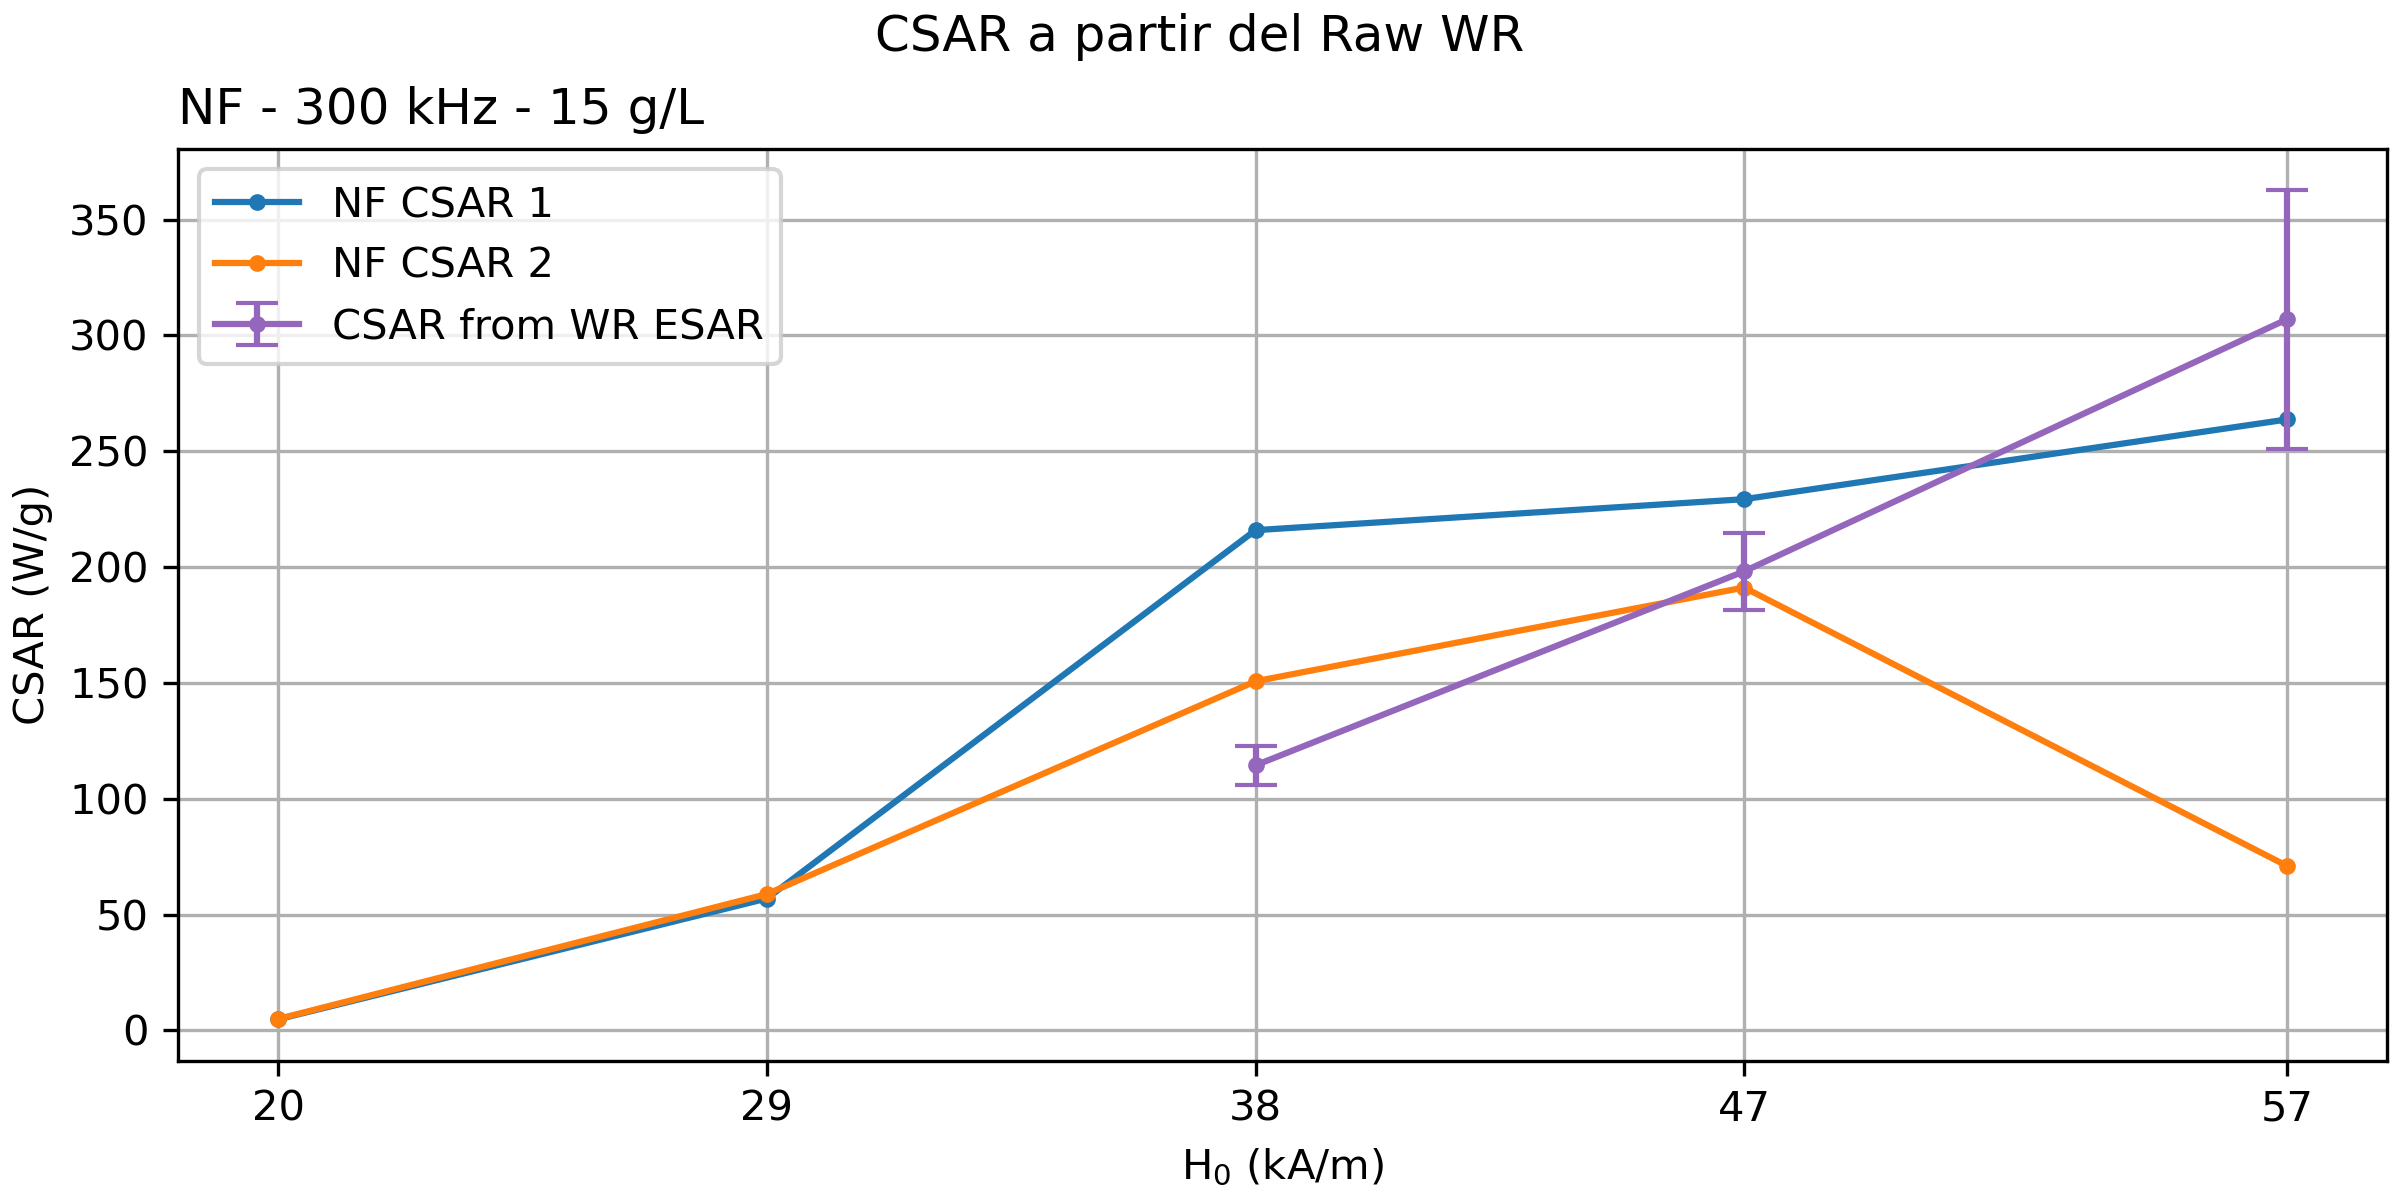
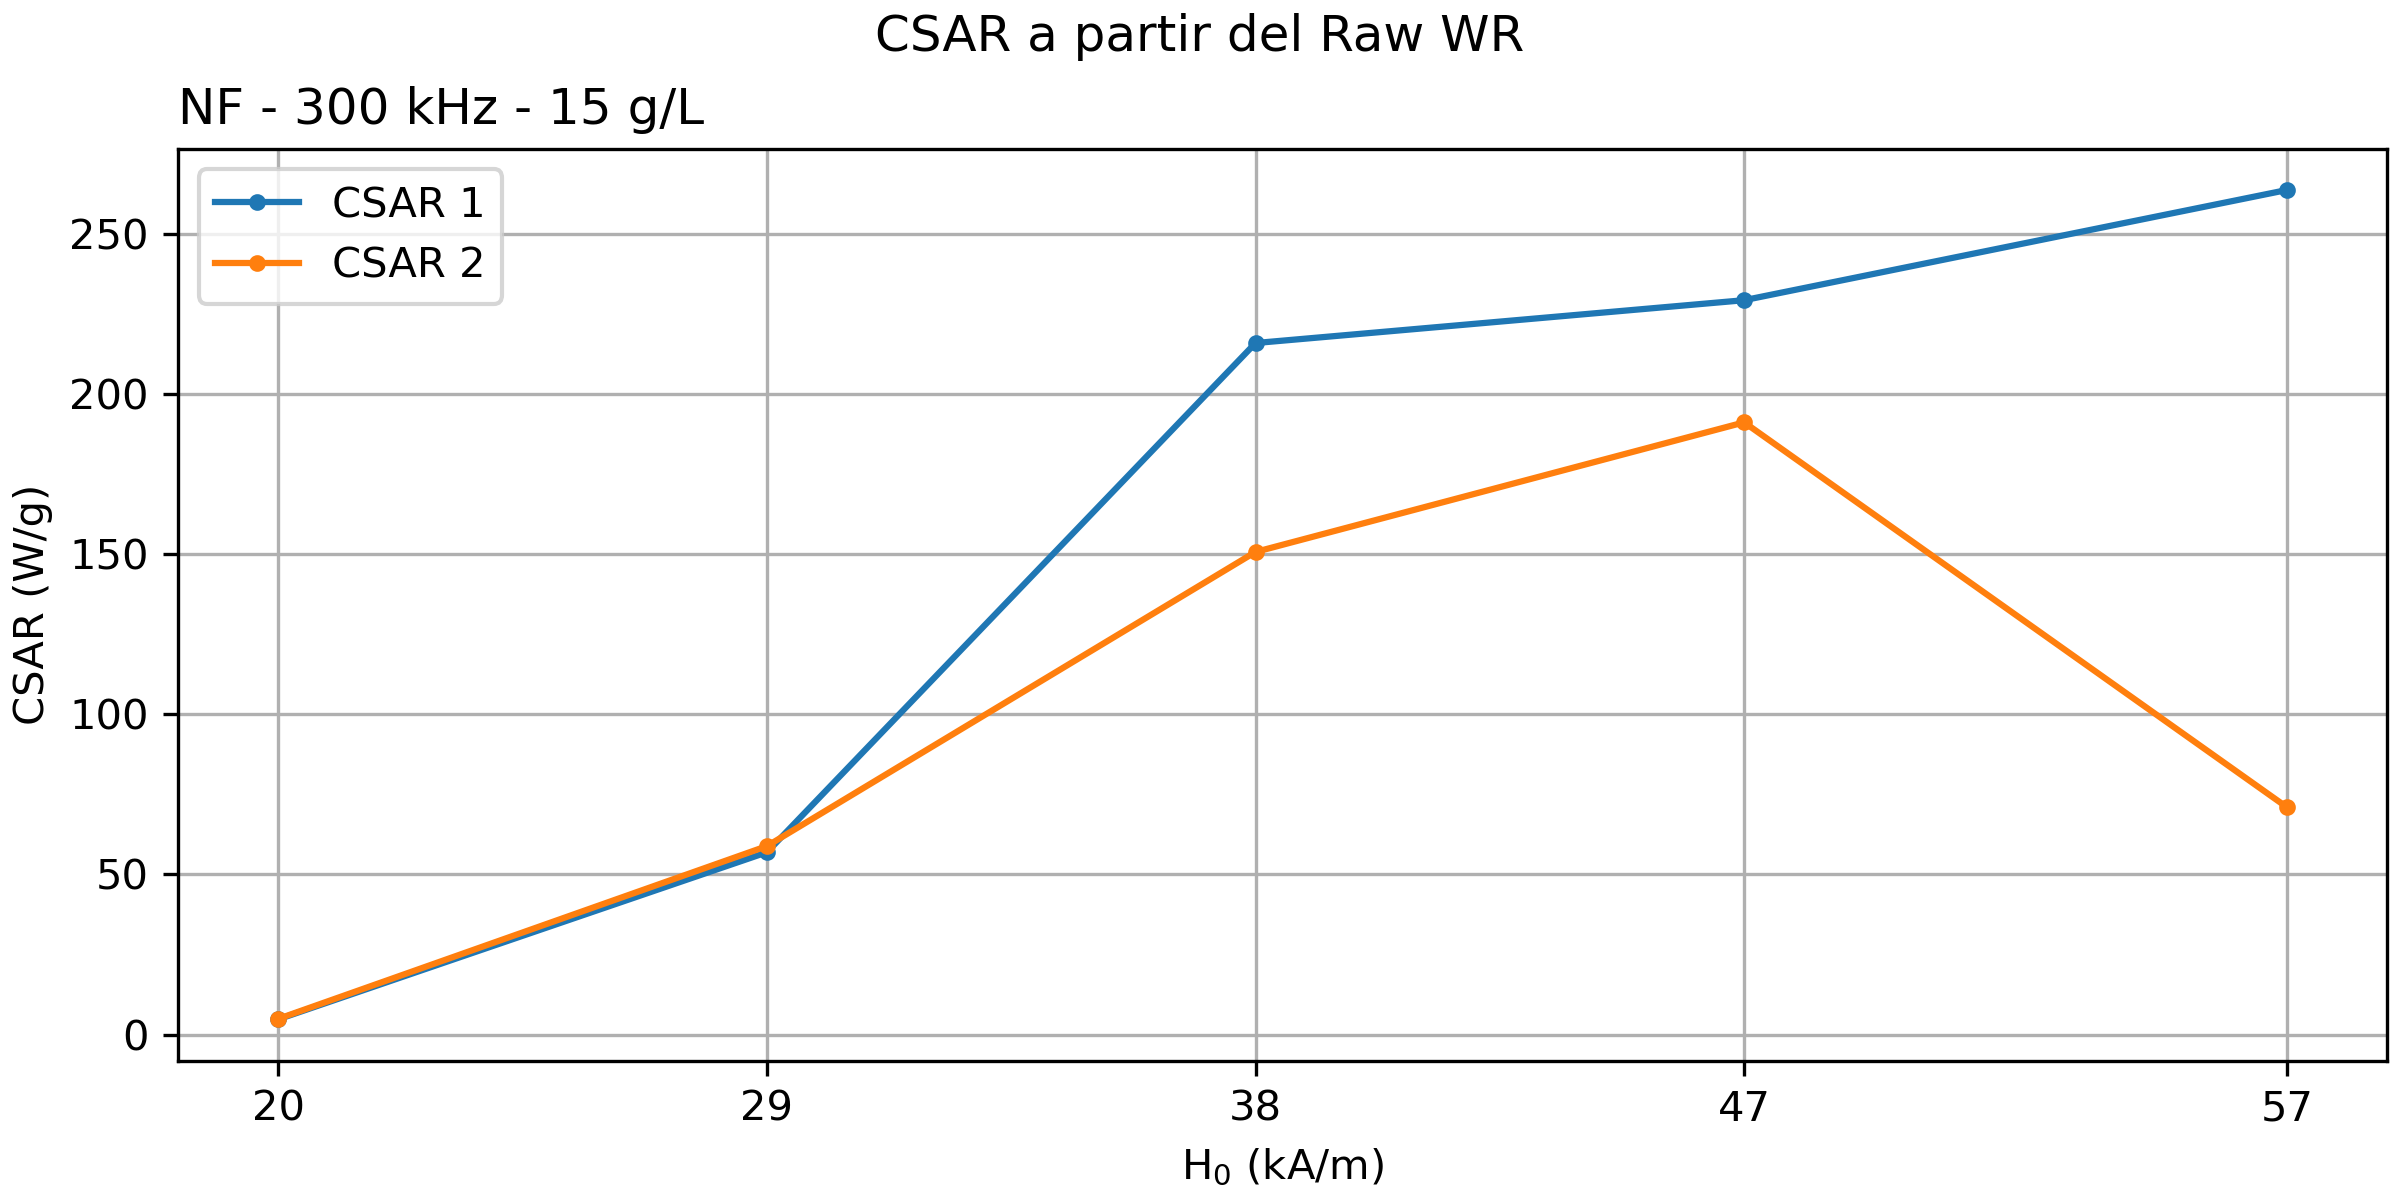
leves cambios

diff --git a/CSAR.py b/CSAR.py
@@ -328,9 +328,9 @@ CSAR_esar = np.array([a*4186/concentracion_NF for a in WR_esar])
 
 fig2,ax= plt.subplots(figsize=(8,4),sharex=True,constrained_layout=True)
 
-ax.plot(H0,CSAR_NF_1,'.-',label='NF CSAR 1')
-ax.plot(H0,CSAR_NF_2,'.-',label='NF CSAR 2')
-ax.errorbar(x=H0_2,y = np.array([a.n for a in CSAR_esar]),yerr = np.array([a.s for a in CSAR_esar]),fmt='.-', capsize=5,c='C4',label='CSAR from WR ESAR')
+ax.plot(H0,CSAR_NF_1,'.-',label='CSAR 1')
+ax.plot(H0,CSAR_NF_2,'.-',label='CSAR 2')
+#ax.errorbar(x=H0_2,y = np.array([a.n for a in CSAR_esar]),yerr = np.array([a.s for a in CSAR_esar]),fmt='.-', capsize=5,c='C4',label='ecSAR')
 ax.grid()
 ax.set_ylabel('CSAR (W/g)')
 ax.legend()
